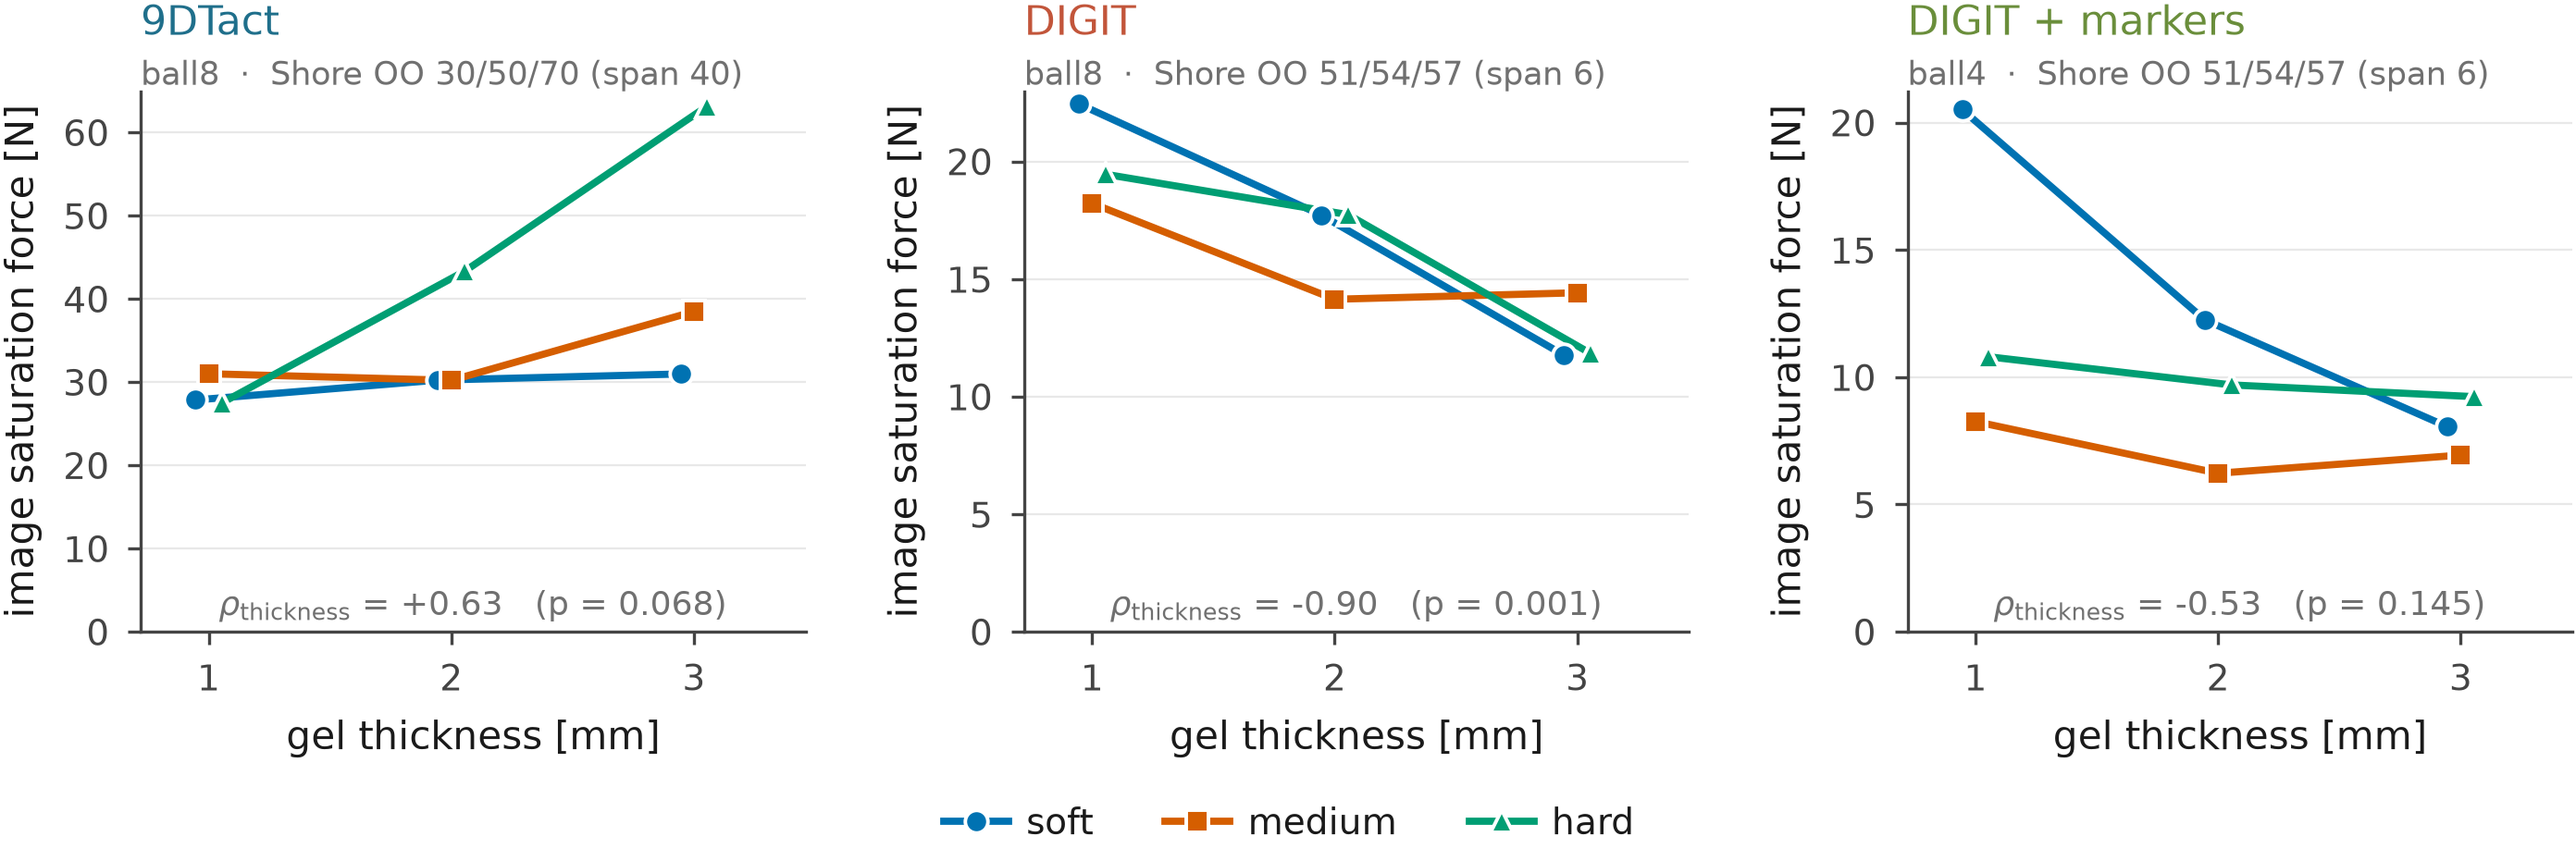
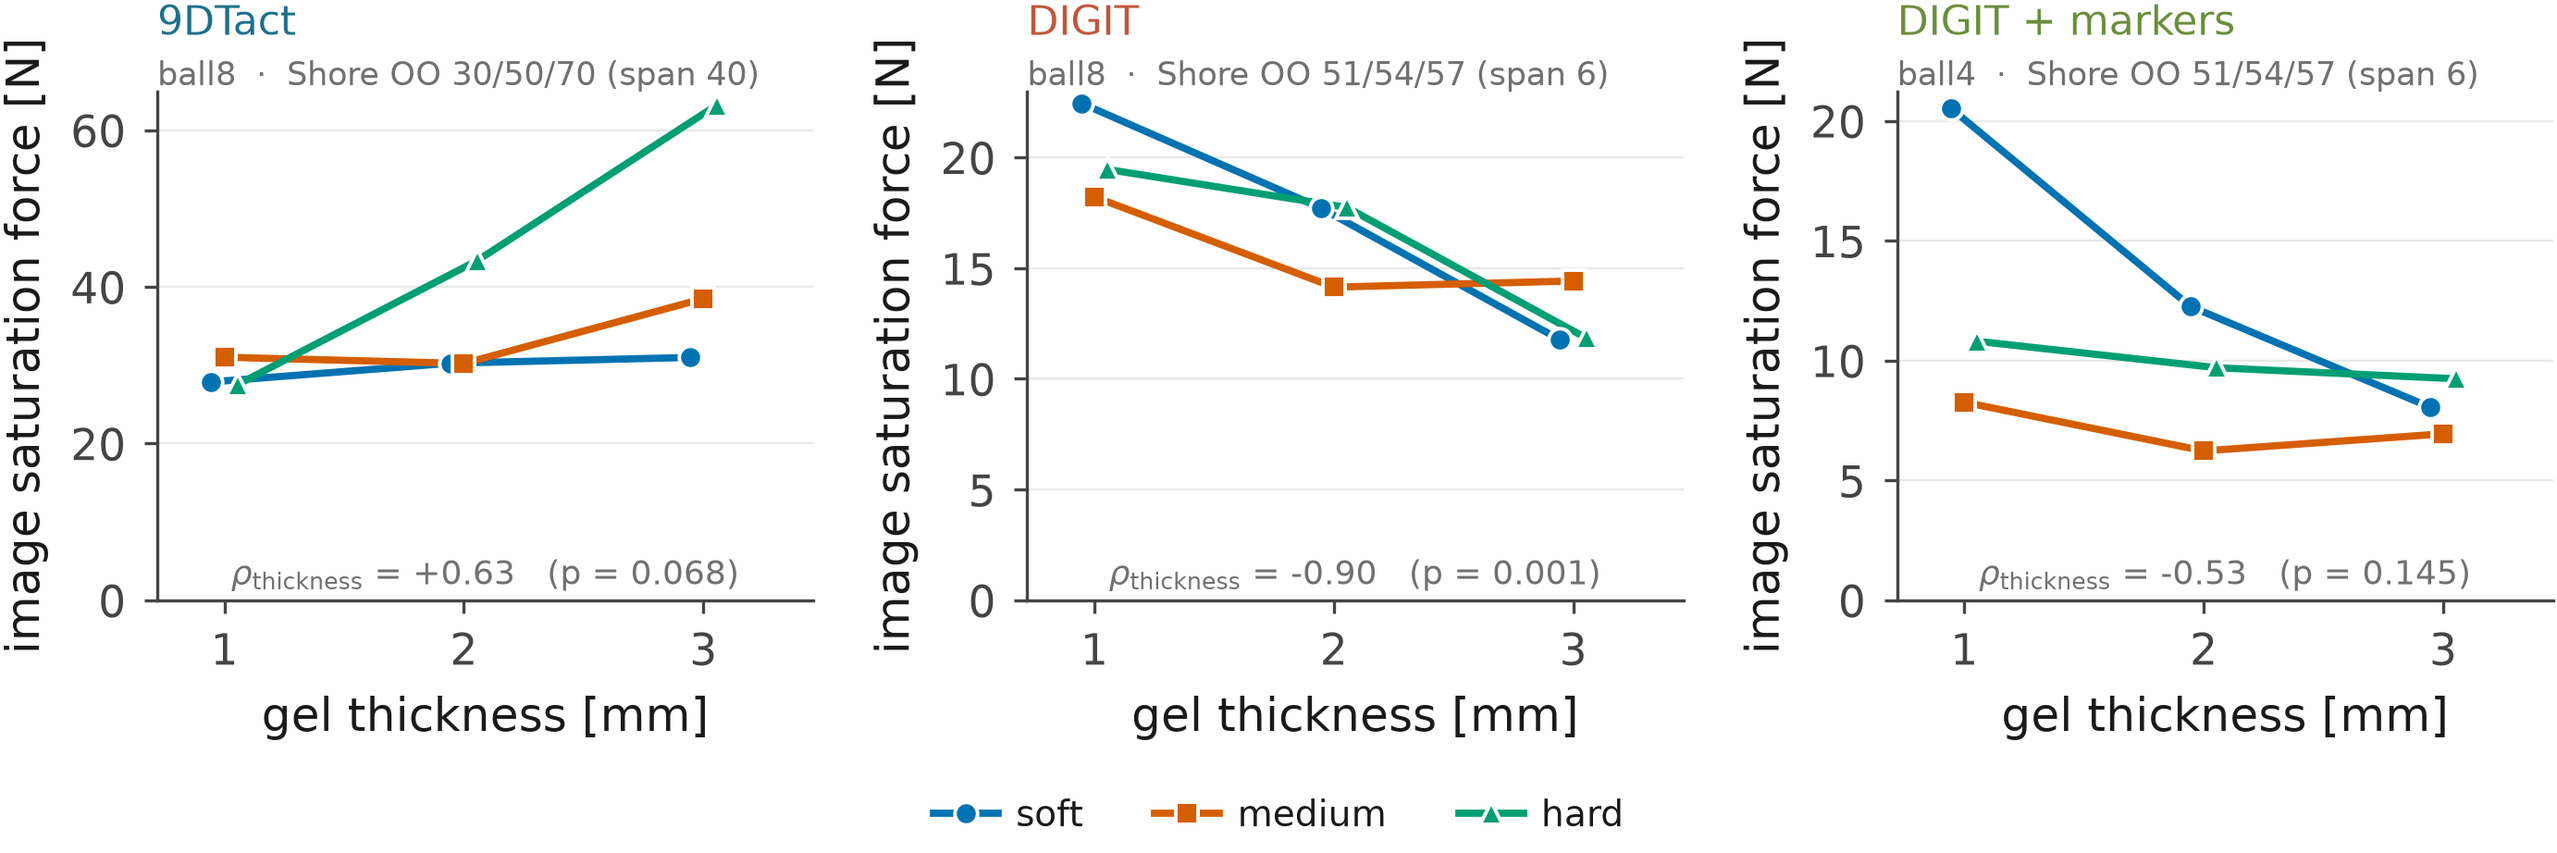
글자를 한 단 키우고 두 패널 그림을 좁게 그린다 (운전자 요청)
paper_style 한 곳에서 건다 -- font 7.5 -> 9, 눈금 7 -> 8.5, 제목 8 -> 9.5,
선과 표식도 그만큼. fig_ceiling 과 fig_separation 둘 다 다시 냈고 넘치는
글자는 없다.

폭 규칙을 고친다. "다른 폭을 쓰지 않는다" 로 박아 두었는데, 두 단 그림을
7.16 보다 좁게 그리고 textwidth 로 앉히면 그만큼 확대돼 글자가 함께 커진다 --
작은 글자를 키우는 가장 싼 방법이다. FULL_W_NARROW 6.10 을 두 패널짜리
기본값으로 두었다. fig_separation 이 그것을 쓴다.

Claude-Session: https://claude.ai/code/session_016iQhAWxVDAfi9YqRbr7KDo

diff --git a/paper/fin_figures/paper_fig_separation.py b/paper/fin_figures/paper_fig_separation.py
@@ -92,18 +92,18 @@ def panel_gel(ax):
                 c=HARD3[h], lw=1.4, label=f"Shore OO-{SHORE['9DTact'][h]}",
                 zorder=3)
         ax.plot(g.thickness_mm + DODGE[h], g.finest_centre_mm, MARKER[h],
-                c=HARD3[h], ms=4.4, mec="white", mew=0.7, ls="none", zorder=4)
+                c=HARD3[h], ms=5.0, mec="white", mew=0.7, ls="none", zorder=4)
 
     rho, p = spearmanr(nine.thickness_mm, nine.finest_centre_mm)
 
-    ax.legend(loc="upper left", frameon=False, fontsize=6.8, handlelength=1.7,
-              handletextpad=0.5, labelspacing=0.32, borderpad=0.1)
+    ax.legend(loc="upper left", frameon=False, handlelength=1.6,
+              handletextpad=0.5, labelspacing=0.3, borderpad=0.1)
     ax.set_xticks([1, 2, 3])
     ax.set_xlim(0.72, 3.30)
     ax.set_ylim(0.86, 2.98)
     ax.set_xlabel("gel thickness [mm]")
     ax.set_ylabel("finest resolved separation [mm]")
-    ax.set_title("(a)", fontsize=8.0, loc="left")
+    ax.set_title("(a)", loc="left")
     PS.style(ax)
     return nine.assign(rho_thickness=rho, p_thickness=p), rho, p
 
@@ -125,20 +125,20 @@ def panel_pixels(ax):
     c = PS.PRINCIPLE["9DTact"]
     ax.axhline(RAYLEIGH, c=PS.MUTED, lw=0.7, ls=(0, (4, 2)), zorder=1)
     ax.plot(seen.density_px_per_mm2, seen.dip, "-", c=c, lw=1.4, zorder=3)
-    ax.plot(seen.density_px_per_mm2, seen.dip, "o", c=c, ms=4.2, mec="white",
+    ax.plot(seen.density_px_per_mm2, seen.dip, "o", c=c, ms=5.0, mec="white",
             mew=0.7, ls="none", zorder=4)
     # 접촉 덩어리 자체를 못 찾은 단 — 값이 없으므로 축 바닥에 따로 찍는다.
     # 글자는 넣지 않는다(운전자 결정) — 캡션이 말해야 한다.
     lost = u[u.dip.isna()]
-    ax.plot(lost.density_px_per_mm2, [LOST_Y] * len(lost), "x", c=c, ms=3.8,
-            mew=1.0, ls="none", zorder=4)
+    ax.plot(lost.density_px_per_mm2, [LOST_Y] * len(lost), "x", c=c, ms=4.6,
+            mew=1.2, ls="none", zorder=4)
 
     ax.set_xscale("log")
     ax.set_xlim(0.09, 1.4e4)
     ax.set_ylim(-0.27, 0.62)
     ax.set_xlabel(r"pixel density $R$ [px/mm$^2$]")
     ax.set_ylabel("dip  $(P-T)/P$")
-    ax.set_title("(b)", fontsize=8.0, loc="left")
+    ax.set_title("(b)", loc="left")
     PS.style(ax, grid=None)
     ax.grid(alpha=0.25, lw=0.4, color="#c8c8c8")
     ax.set_axisbelow(True)
@@ -146,7 +146,7 @@ def panel_pixels(ax):
 
 
 def main():
-    fig, axes = plt.subplots(1, 2, figsize=(PS.FULL_W, 2.55))
+    fig, axes = plt.subplots(1, 2, figsize=(PS.FULL_W_NARROW, 2.60))
     gel, rho, p = panel_gel(axes[0])
     sweep, first = panel_pixels(axes[1])
 

diff --git a/CLAUDE.md b/CLAUDE.md
@@ -30,7 +30,12 @@
   그 폴더만 건네면 누구든 다시 그린다. 돌리는 법은 그 폴더의 `README.md`.
 - 판형·색·저장은 `paper/fin_figures/paper_style.py` 한 곳에서 건다.
   새 그림에서 rcParams 를 다시 쓰지 않는다.
-- IEEE 두 단 판형: 한 단 3.50 in · 두 단 7.16 in. 다른 폭을 쓰지 않는다.
+- IEEE 두 단 판형: 한 단 3.50 in · 두 단 7.16 in.
+  **두 단 그림은 7.16 보다 좁게 그려도 된다** (운전자 결정, 2026-09-15). 본문에
+  `\textwidth` 로 앉히면 그만큼 확대되므로 글자도 함께 커진다 — 좁게 그리고 크게
+  앉히는 것이 작은 글자를 키우는 가장 싼 방법이다. 패널 비율이 뭉개지지 않는
+  선까지만 줄인다. 두 패널짜리 기본값은 `paper_style.FULL_W_NARROW`.
+- 글자 크기는 **인쇄에서 읽히는 것**이 기준이다. `paper_style` 한 곳에서 건다.
 - 색만으로 군을 가르지 않는다 — 표식 모양을 함께 건다(흑백 인쇄·색각 이상).
 - 글꼴은 Type 42 로 심는다. Type 3 은 IEEE PDF eXpress 가 되돌려 보낸다.
 - **csv 없이 그림을 저장하지 않는다.** `paper_style.save()` 가 pdf·png·csv 를 함께 낸다.

diff --git a/paper/figure_plan.md b/paper/figure_plan.md
@@ -70,6 +70,11 @@
 건네면 누구든 다시 그린다 (`cd paper/fin_figures && python3 paper_fig_<이름>.py`).
 자료는 `result/single/` 의 csv 에서 읽으므로 `data/` 가 없는 기계에서도 돌아간다.
 
+- 폭은 한 단 3.50 in · 두 단 7.16 in 이 기준이되, **두 단 그림은 더 좁게 그려도
+  된다** (운전자 결정, 2026-09-15). `\textwidth` 로 앉히면 그만큼 확대되므로
+  글자가 함께 커진다. 두 패널짜리 기본값은 `FULL_W_NARROW = 6.10 in`.
+- 글자는 본문 기준 9 pt 로 그린다(2026-09-15 에 7.5 → 9 로 올렸다). 7.5 로 그렸더니
+  두 단에 앉혔을 때 작았다.
 - 색은 `palette.py` 의 Okabe-Ito 셋을 그대로 쓴다. 검증기 전 항목 통과
   (인접 쌍 최악 ΔE 11.0 deutan · 보통 시야 25.8 · 바탕 대비 전부 3:1 이상).
 - **색만으로 군을 가르지 않는다** — 경도마다 표식 모양(`o` / `s` / `^`)을 함께 건다.
